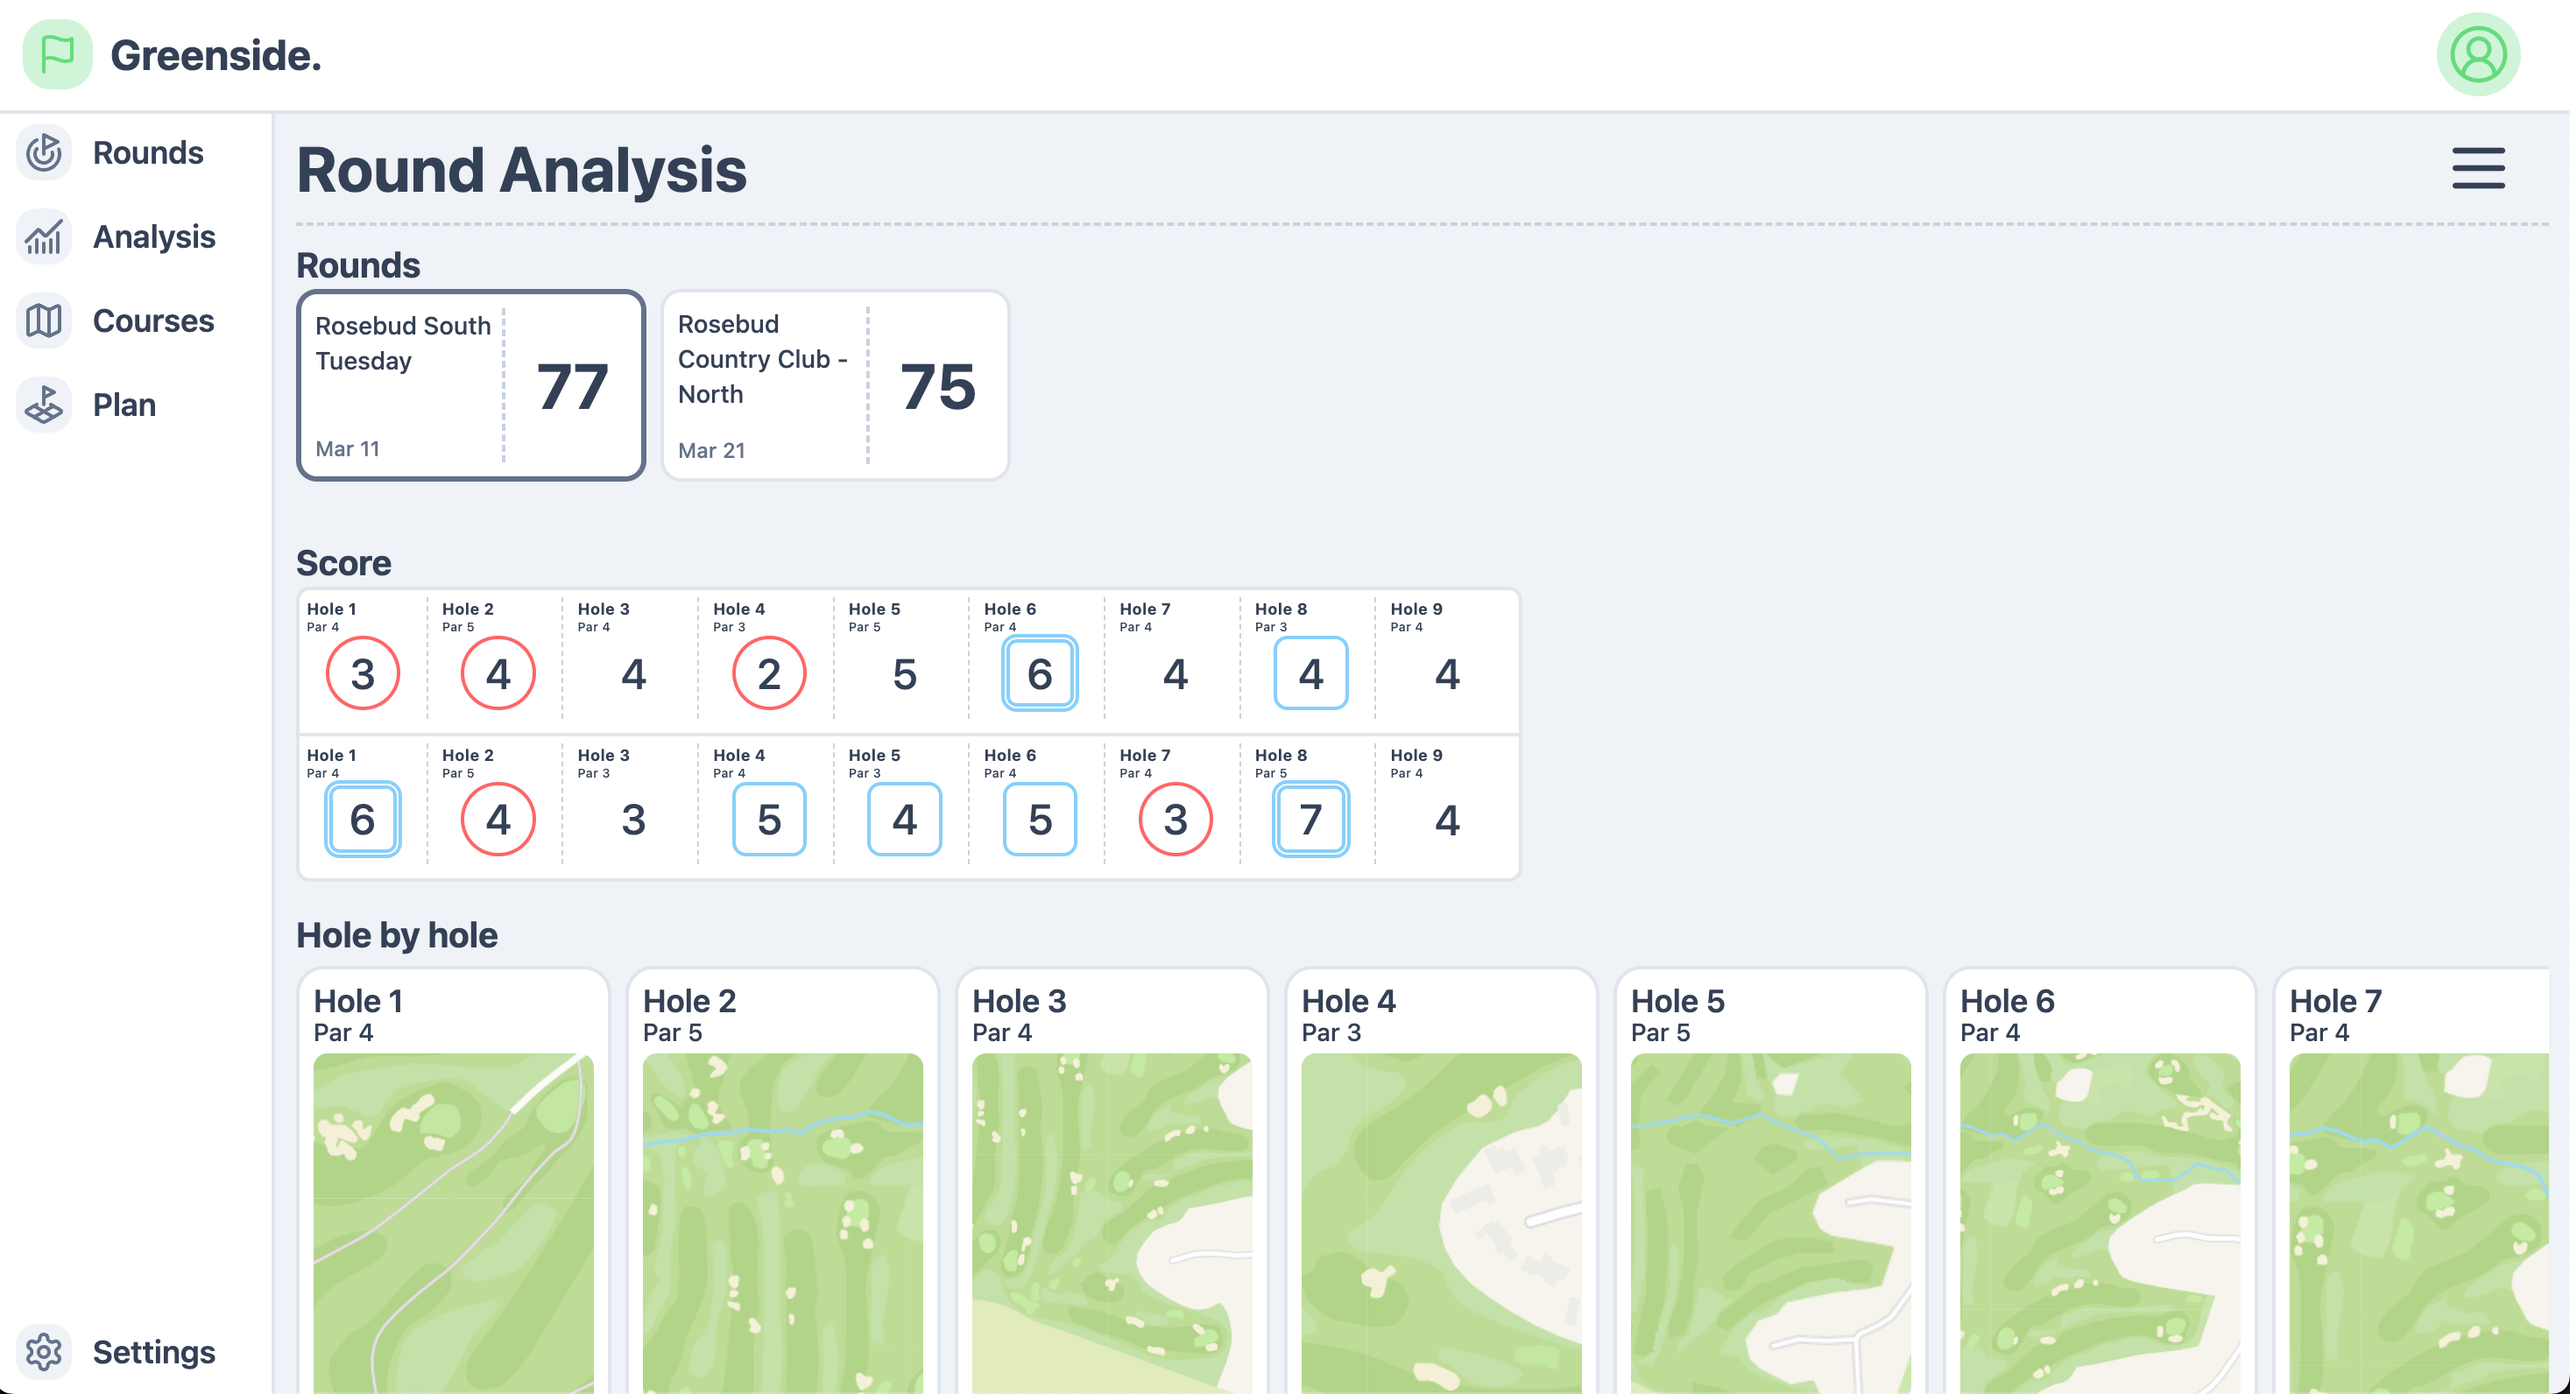
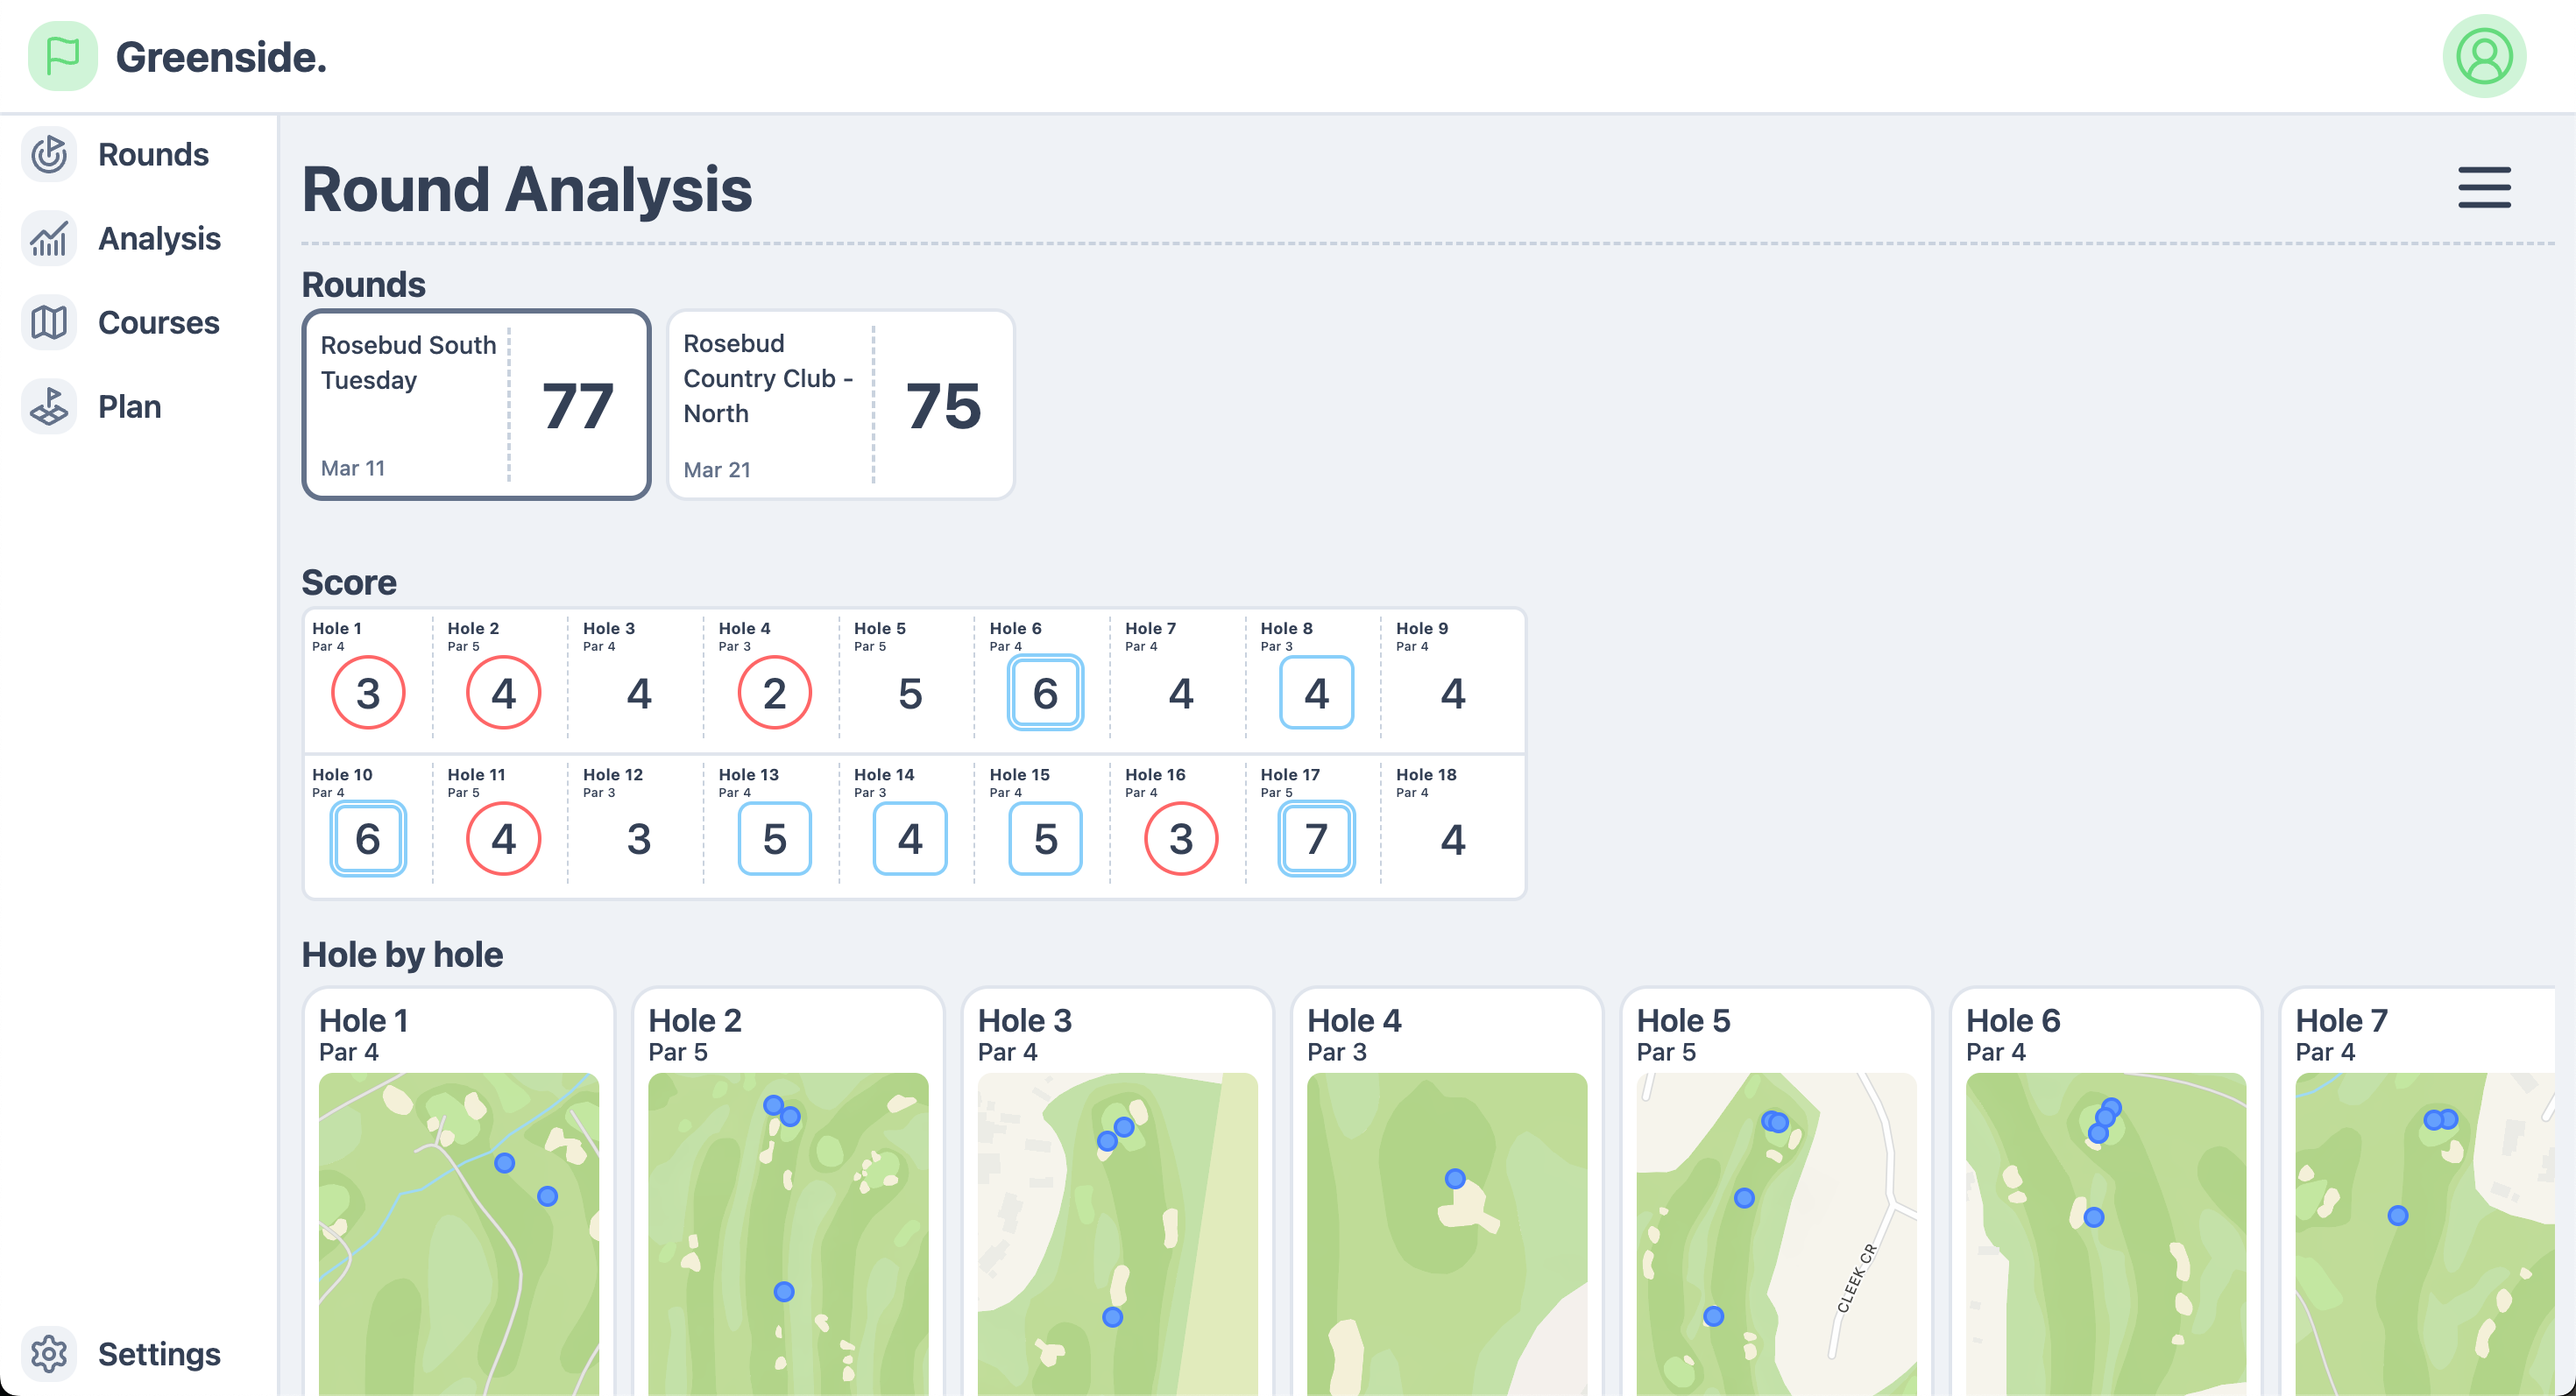
Added badges for scores for each hole.

diff --git a/frontend/src/components/analysis/holes/HoleCard.jsx b/frontend/src/components/analysis/holes/HoleCard.jsx
@@ -1,0 +1,47 @@
+import LazyHoleMap from "./LazyHoleMap"
+import { useRoundStore } from "../../../store/useRoundStore"
+
+export default function HoleCard({ hole }) {
+
+  // Getting score from round store
+  const { roundHoles } = useRoundStore()
+
+  // Getting the score
+  const score = roundHoles.map(hole => hole.score)[hole.num - 1]
+
+  // Score classification object for our badge
+  const scoreClassification = {
+    "3": { badge: "bg-blue-500/30", score: "Double Bogey+" },
+    "2": { badge: "bg-blue-500/40", score: "Double Bogey" },
+    "1": { badge: "bg-blue-500/50", score: "Bogey" },
+    "0": { badge: "bg-gray-300", score: "Par" },
+    "-1": { badge: "bg-red-500/50", score: "Birdie" },
+    "-2": { badge: "bg-green-500/50", score: "Eagle" },
+    "-3": { badge: "bg-yellow-500/50", score: "Albatross" },
+  }
+
+  // Helper function to classify the score
+  const classifyScore = (score) => {
+    const par = hole.par
+    const scoreToPar = score - par
+
+    return scoreClassification[`${scoreToPar}`]
+  }
+
+  const { badge, score: scoreLabel } = classifyScore(score)
+
+  return (
+    <div className="card card-border rounded-2xl border-2 border-base-300 pt-1 px-2 pb-2 w-[180px] bg-base-100">
+      <p className="font-semibold text-lg">Hole {hole.num}</p>
+      <p className="font-medium text-sm/2 pb-2">Par {hole.par}</p>
+      <div className="h-[300px] w-[160px] rounded-lg overflow-hidden">
+        <LazyHoleMap hole={hole} />
+      </div>
+      <div className="flex flex-row justify-between px-1">
+        <p className="font-medium text-xs mt-1">Score: {score}</p>
+        {/* Classifying the score for the badge */}
+        <div className={`mt-1 badge badge-xs border-none ${badge}`}>{scoreLabel}</div>
+      </div>
+    </div>
+  )
+}

diff --git a/frontend/src/components/analysis/holes/HolesList.jsx b/frontend/src/components/analysis/holes/HolesList.jsx
@@ -1,6 +1,7 @@
-import { useRoundStore } from "../../store/useRoundStore"
+import { useRoundStore } from "../../../store/useRoundStore"
 import LazyHoleMap from "./LazyHoleMap"
-import HoleCardSkeleton from "../skeletons/HoleCardSkeleton"
+import HoleCardSkeleton from "../../skeletons/HoleCardSkeleton"
+import HoleCard from "./HoleCard"
 
 export default function HolesList() {
 
@@ -17,14 +18,9 @@ export default function HolesList() {
     <div className="w-full mt-2 mb-2 transition-all duration-300">
       <h1 className="text-xl font-bold pointer-events-none mb-1">Hole by hole</h1>
       <div className="flex overflow-x-auto space-x-2 pb-4">
+        {/* Mapping every hole to their respective map including their shots */}
         {courseHoles?.map(hole => (
-          <div className="card card-border rounded-2xl border-2 border-base-300 pt-1 px-2 pb-2 w-[180px] bg-base-100" key={hole.num}>
-            <p className="font-semibold text-lg">Hole {hole.num}</p>
-            <p className="font-medium text-sm/2 pb-2">Par {hole.par}</p>
-            <div className="h-[300px] w-[160px] rounded-lg overflow-hidden">
-              <LazyHoleMap hole={hole} />
-            </div>
-          </div>
+          <HoleCard hole={hole} key={hole.num}/>
         ))}
       </div>
     </div>

diff --git a/frontend/src/components/analysis/holes/HoleMap.jsx b/frontend/src/components/analysis/holes/HoleMap.jsx
@@ -1,6 +1,6 @@
 import { useEffect, useRef, useCallback, useState } from 'react'
-import { haversineDistance, calculateBearing, calculateDelta } from "../../utils/geometry"
-import { useRoundStore } from '../../store/useRoundStore'
+import { haversineDistance, calculateBearing, calculateDelta } from "../../../utils/geometry"
+import { useRoundStore } from '../../../store/useRoundStore'
 
 
 // flag to track MapKit initialization
@@ -176,14 +176,14 @@ export default function HoleMap({ hole }) {
     div.className = `
     size-3 bg-blue-400 rounded-full border-2 border-blue-500 hover:bg-blue-500 cursor-pointer transition-all duration-300
     relative
-  `
+    `
 
     // Creating the tooltip
     var tooltip = document.createElement("div");
     tooltip.className = `
     card card-border border-2 rounded-lg w-[45px] bg-base-100 border-base-300 pointer-events-none flex items-center justify-center
     absolute invisible transition-opacity duration-300 opacity-0
-  `
+    `
     var shotDistDiv = document.createElement("div")
     shotDistDiv.className = `text-xs font-medium`
     shotDistDiv.innerHTML = `${options.data.distanceToPin}m`

diff --git a/frontend/src/components/analysis/holes/LazyHoleMap.jsx b/frontend/src/components/analysis/holes/LazyHoleMap.jsx
@@ -6,6 +6,7 @@ export default function LazyHoleMap(props) {
   const [isVisible, setIsVisible] = useState(false)
   const observerRef = useRef(null)
 
+  // On appear checking if the component is in the viewport.
   useEffect(() => {
     const observer = new IntersectionObserver(
       ([entry]) => {
@@ -14,7 +15,7 @@ export default function LazyHoleMap(props) {
       },
       {
         root: null,
-        rootMargin: "0px",
+        rootMargin: "0px",  // Don't want to preload (taxing)
         threshold: 0.1
       }
     )
@@ -23,6 +24,7 @@ export default function LazyHoleMap(props) {
       observer.observe(observerRef.current)
     }
 
+    // Cleanup
     return () => observer.disconnect()
   }, [])
 

diff --git a/frontend/src/App.jsx b/frontend/src/App.jsx
@@ -6,6 +6,7 @@ import RoundsPage from "./pages/RoundsPage";
 
 import { Routes, Route, Navigate } from "react-router-dom"
 import { Toaster } from "react-hot-toast"
+import HoleByHolePage from "./pages/HoleByHolePage";
 
 export default function App() {
   return (
@@ -20,6 +21,7 @@ export default function App() {
             <Route path="/" element={<HomePage />} />
             <Route path="/rounds" element={<RoundsPage />} />
             <Route path="/analysis" element={<AnalysisPage />} />
+            <Route path="/hole" element={<HoleByHolePage />} />
           </Routes>
         </main>
       </div>

diff --git a/frontend/src/pages/AnalysisPage.jsx b/frontend/src/pages/AnalysisPage.jsx
@@ -1,8 +1,7 @@
 import { Menu } from "lucide-react"
-import ScoreBox from "../components/analysis/ScoreBox"
 import RoundsList from "../components/analysis/RoundsList"
 import { useRoundStore } from "../store/useRoundStore"
-import HolesList from "../components/analysis/HolesList"
+import HolesList from "../components/analysis/holes/HolesList"
 import ScoreTable from "../components/analysis/ScoreTable"
 
 export default function AnalysisPage() {

diff --git a/frontend/src/pages/HoleByHolePage.jsx b/frontend/src/pages/HoleByHolePage.jsx
@@ -1,0 +1,5 @@
+export default function HoleByHolePage() {
+  return (
+    <div>HoleByHolePage</div>
+  )
+}
